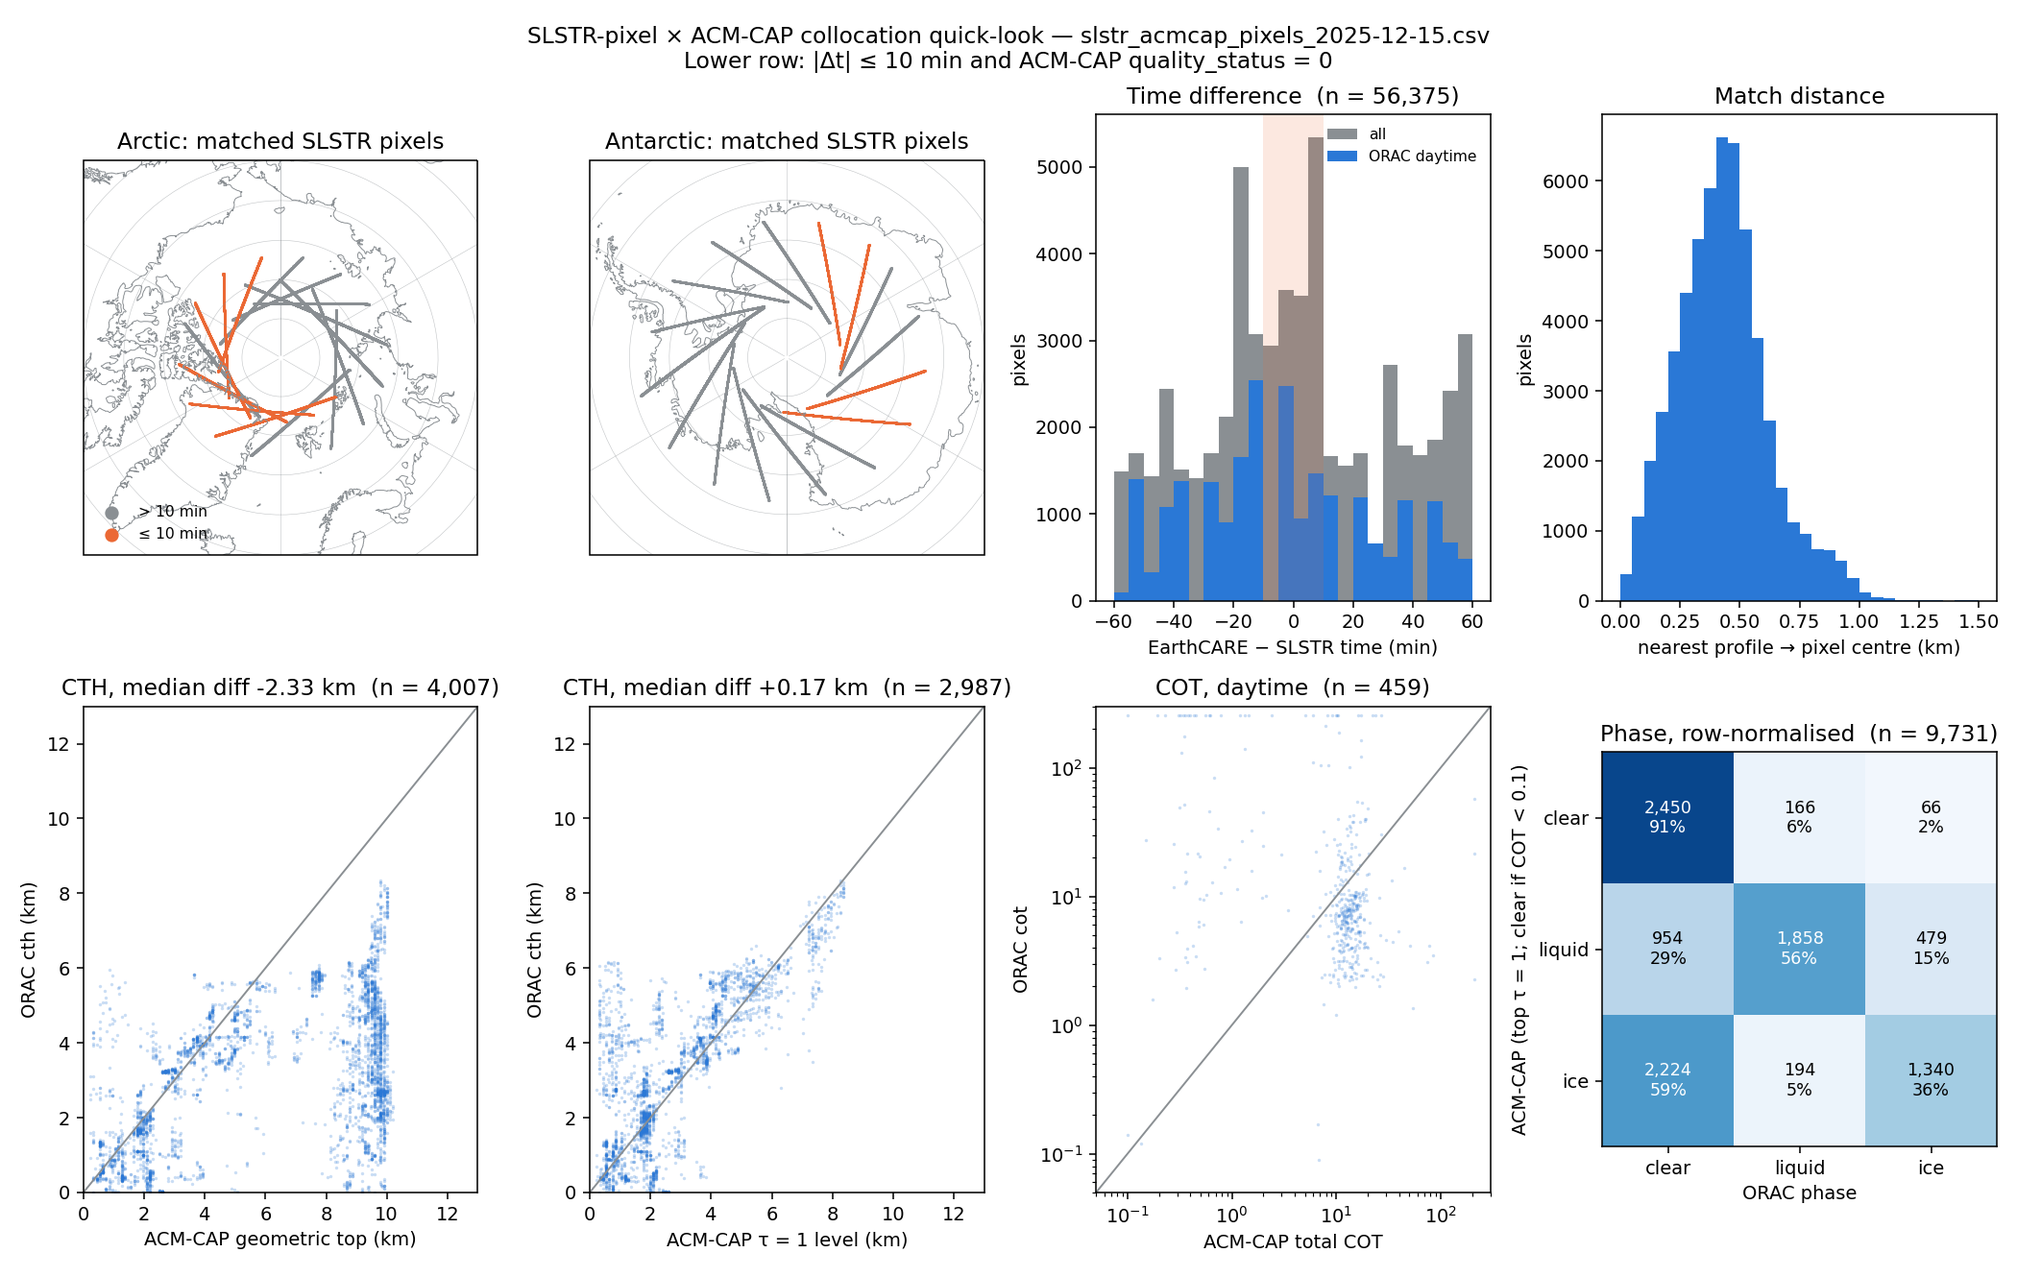
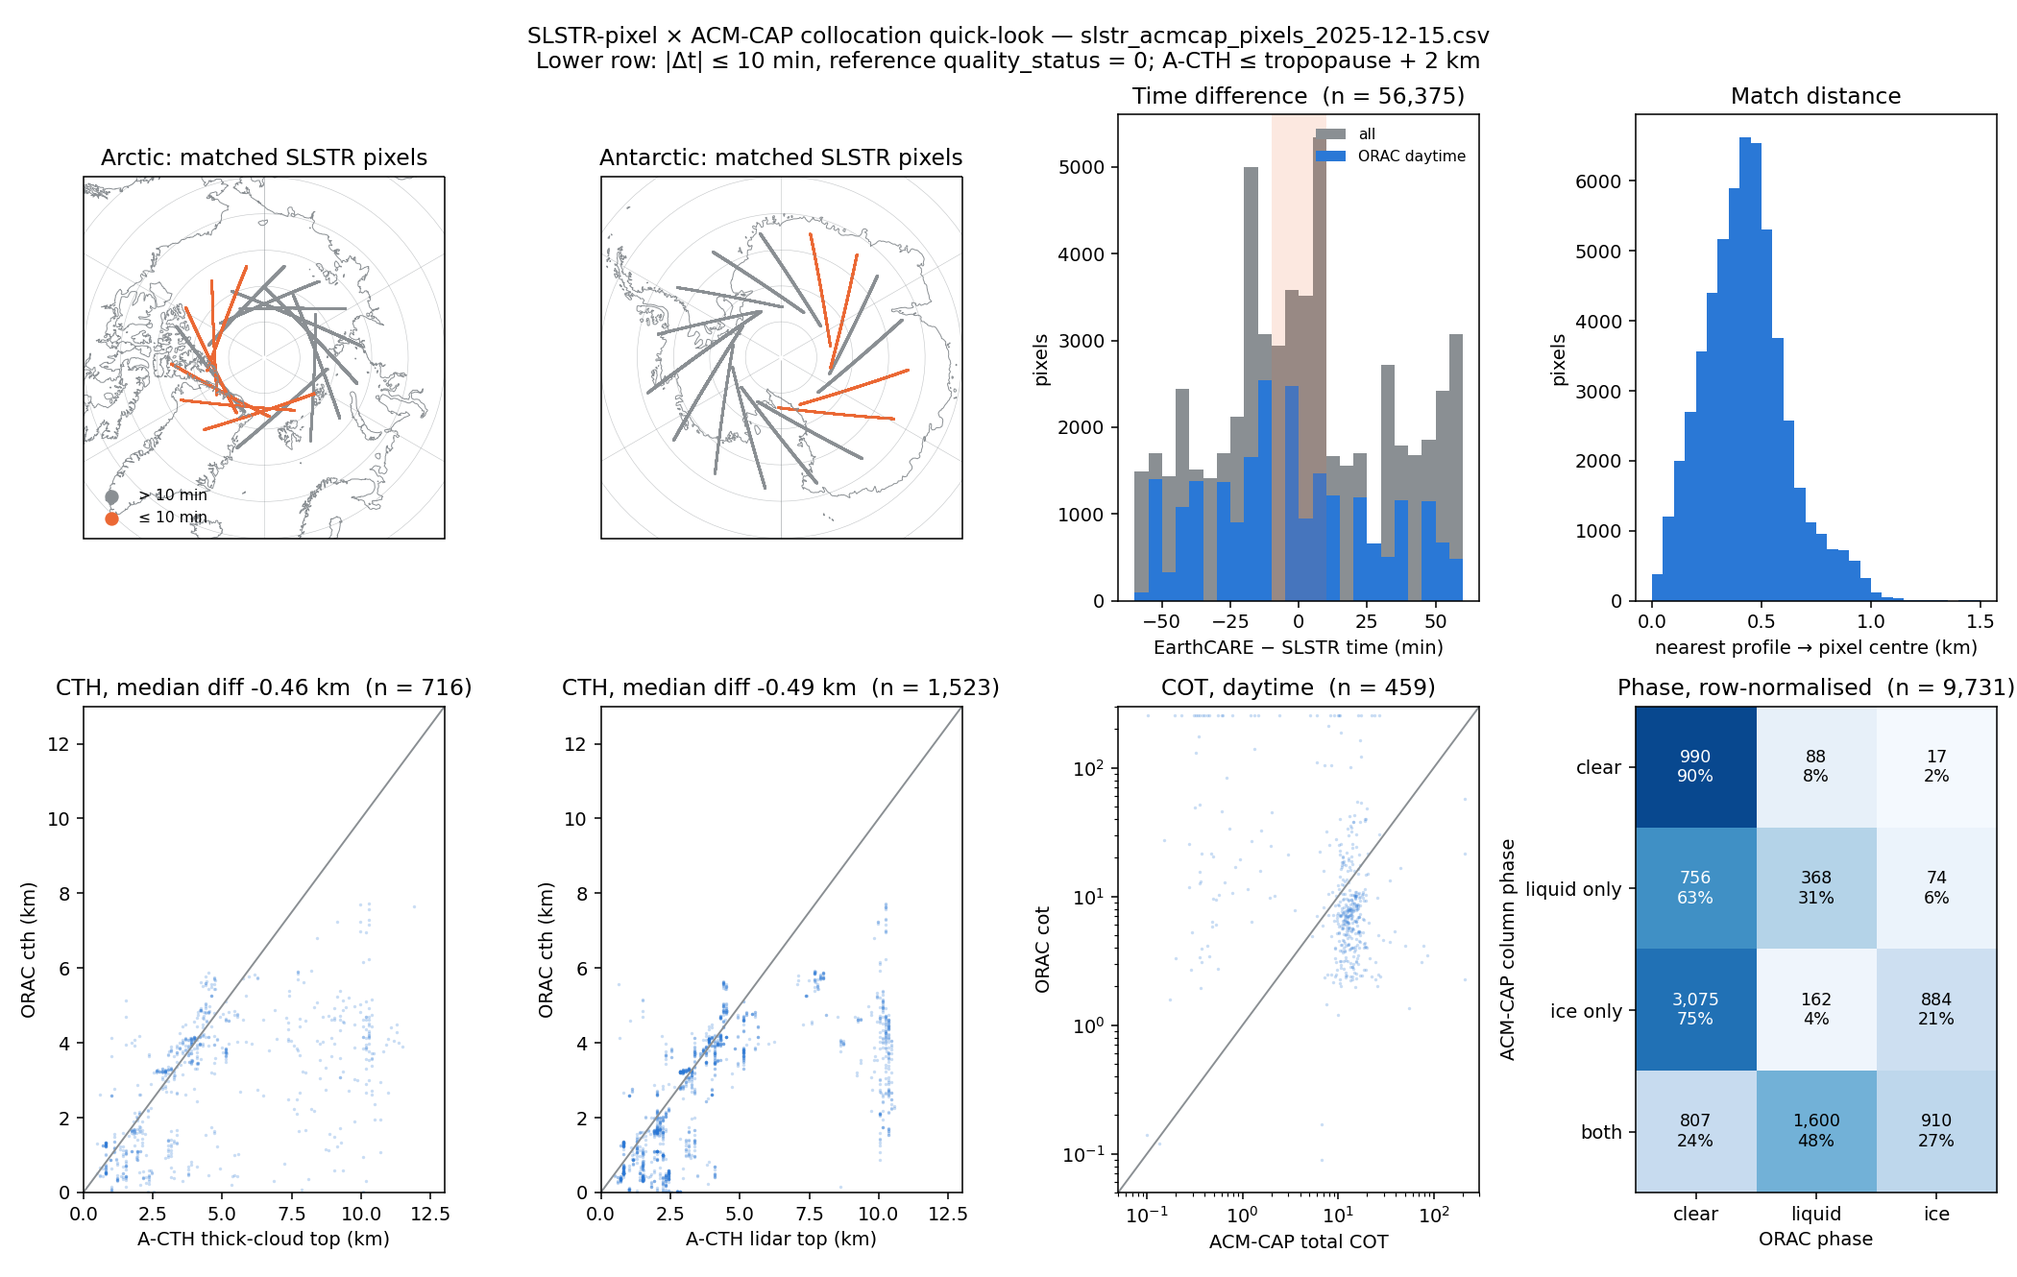
slstr(pixel): take cloud-top height from A-CTH; drop derived ACM-CAP top quantities
ACM-CAP has no cloud-top height, so the pilot had derived one (extinction
threshold) plus an optical-depth-1 level and top-weighted radius / ice
fraction. Replace those with the A-CTH product, resampled onto the ACM-CAP
profiles by nearest time, and keep only quantities taken or integrated
straight from ACM-CAP.

diff --git a/validation/reference.py b/validation/reference.py
@@ -205,22 +205,11 @@ def cth_from_acth(
     return thick_km, raw_km
 
 
-# Extinction above which a bin counts as cloud for the geometric cloud top
-# (~0.001 optical depth per 100 m bin). ACM-CAP reports ice extinction down to
-# ~1e-9 m^-1, far below anything a passive imager responds to.
-ACCAP_CLOUD_EXT_MIN = 1.0e-5
-# Optical depth below cloud top over which the "what a passive sensor sees"
-# quantities (top effective radius, top phase) are weighted.
-ACCAP_TOP_TAU = 1.0
 # Optical depth a species needs before it counts as present in ``phase_col``.
 ACCAP_PHASE_TAU_MIN = 0.01
 
 
-def accap_column_properties(
-    track: dict,
-    cloud_ext_min: float = ACCAP_CLOUD_EXT_MIN,
-    top_tau: float = ACCAP_TOP_TAU,
-) -> dict[str, np.ndarray]:
+def accap_column_properties(track: dict) -> dict[str, np.ndarray]:
     """Reduce ACM-CAP profiles to per-profile column quantities.
 
     Takes the dict from :func:`validation.readers.read_accap_columns` and
@@ -233,24 +222,16 @@ def accap_column_properties(
         ``cot_total``   liquid + ice
     Effective radius [µm]
         ``cer_liquid_col`` / ``cer_ice_col``  extinction-weighted over the column
-        ``cer_liquid_top`` / ``cer_ice_top``  weighted over the uppermost
-        ``top_tau`` of *total* optical depth (what a passive sensor responds to)
     Water path [g m^-2]
         ``lwp`` (∫ LWC dz), ``iwp`` (ACM-CAP ``ice_water_path``), ``rwp`` (∫ RWC dz)
     Phase
-        ``ice_frac_top``  ice share of the uppermost ``top_tau`` of optical
-        depth: 0 = liquid top, 1 = ice top
         ``phase_col``     0 clear, 1 liquid only, 2 ice only, 3 both; a species
         is present when its optical depth ≥ ``ACCAP_PHASE_TAU_MIN``
-    Cloud top
-        ``cth`` [km]  highest bin with total extinction ≥ ``cloud_ext_min``
-        ``ctt`` [K]   model temperature there
-        ``z_tau1`` [km] / ``t_tau1`` [K]  level where optical depth from the top
-        reaches ``top_tau`` (NaN for thinner columns)
-        Heights are on the ACM-CAP ``height`` grid, not corrected for geoid.
+
+    ACM-CAP has no cloud-top height; that reference comes from A-CTH
+    (:func:`cth_from_acth`).
     """
     h = track["height"]
-    n = h.shape[0]
     dz = np.abs(np.diff(h, axis=1))
     dz = np.concatenate([dz[:, :1], dz], axis=1)
     dz = np.where(np.isfinite(dz), dz, 0.0)
@@ -261,7 +242,6 @@ def accap_column_properties(
     ext_l, ext_i = _zero(track["liquid_extinction"]), _zero(track["ice_extinction"])
     re_l, re_i = _zero(track["liquid_effective_radius"]), _zero(track["ice_effective_radius"])
     tau_l, tau_i = ext_l * dz, ext_i * dz
-    tau = tau_l + tau_i
     # A profile with no retrieval has fill in every bin of both species.
     retrieved = (np.isfinite(track["liquid_extinction"]).any(axis=1)
                  | np.isfinite(track["ice_extinction"]).any(axis=1))
@@ -275,31 +255,9 @@ def accap_column_properties(
         with np.errstate(invalid="ignore", divide="ignore"):
             return np.where(den > 0, (weight * value).sum(axis=1) / den, np.nan)
 
-    # Share of each bin lying within the uppermost `top_tau` (grid is top-down).
-    cum = np.cumsum(tau, axis=1)
-    above = cum - tau
-    with np.errstate(invalid="ignore", divide="ignore"):
-        share = np.where(
-            tau > 0,
-            (np.minimum(cum, top_tau) - np.minimum(above, top_tau)) / tau, 0.0)
-    top_l, top_i = tau_l * share, tau_i * share
-    top_l_sum, top_i_sum = top_l.sum(axis=1), top_i.sum(axis=1)
-    with np.errstate(invalid="ignore", divide="ignore"):
-        ice_frac_top = np.where(
-            top_l_sum + top_i_sum > 0, top_i_sum / (top_l_sum + top_i_sum), np.nan)
-
     has_l = tau_l.sum(axis=1) >= ACCAP_PHASE_TAU_MIN
     has_i = tau_i.sum(axis=1) >= ACCAP_PHASE_TAU_MIN
     phase_col = np.where(retrieved, has_l * 1.0 + has_i * 2.0, np.nan)
-
-    rows = np.arange(n)
-    cloudy = (ext_l + ext_i) >= cloud_ext_min
-    top_bin = np.argmax(cloudy, axis=1)
-    has_top = cloudy.any(axis=1)
-    reach = cum >= top_tau
-    tau1_bin = np.argmax(reach, axis=1)
-    has_tau1 = reach.any(axis=1)
-    temp = track["temperature"]
 
     return {
         "cot_liquid": cot_liquid,
@@ -307,15 +265,8 @@ def accap_column_properties(
         "cot_total": cot_total,
         "cer_liquid_col": _wmean(tau_l, re_l) * 1e6,
         "cer_ice_col": _wmean(tau_i, re_i) * 1e6,
-        "cer_liquid_top": _wmean(top_l, re_l) * 1e6,
-        "cer_ice_top": _wmean(top_i, re_i) * 1e6,
         "lwp": np.where(retrieved, (_zero(track["liquid_water_content"]) * dz).sum(axis=1) * 1e3, np.nan),
         "iwp": track["ice_water_path"] * 1e3,
         "rwp": np.where(retrieved, (_zero(track["rain_water_content"]) * dz).sum(axis=1) * 1e3, np.nan),
-        "ice_frac_top": ice_frac_top,
         "phase_col": phase_col,
-        "cth": np.where(has_top, h[rows, top_bin] / 1e3, np.nan),
-        "ctt": np.where(has_top, temp[rows, top_bin], np.nan),
-        "z_tau1": np.where(has_tau1, h[rows, tau1_bin] / 1e3, np.nan),
-        "t_tau1": np.where(has_tau1, temp[rows, tau1_bin], np.nan),
     }

diff --git a/validation/cli.py b/validation/cli.py
@@ -696,14 +696,58 @@ _ACCAP_PIXEL_FLAGS = (
     "atlid_assim_status", "cpr_assim_status",
     "msi_sw_assim_status", "msi_lw_assim_status",
 )
-_ACCAP_PIXEL_RANGE = ("cot_total", "cth")
+_ACCAP_PIXEL_RANGE = ("cot_total",)
+# A-CTH and ACM-CAP are on different along-track grids (~0.14 s per profile);
+# an A-CTH profile further than this in time from the ACM-CAP one is not used.
+_ACTH_MAX_DT_S = 0.15
+
+
+def _acth_on_accap_profiles(acth_path: Path | None, accap_time: np.ndarray) -> pd.DataFrame:
+    """A-CTH cloud-top fields resampled onto the ACM-CAP profiles of the same frame.
+
+    Nearest A-CTH profile in time; rows are all-missing when the frame has no
+    A-CTH file or no profile within ``_ACTH_MAX_DT_S``.
+    """
+    n = accap_time.size
+    out = pd.DataFrame({
+        "acth_cth_thick_km": np.full(n, np.nan), "acth_cth_km": np.full(n, np.nan),
+        "acth_tropopause_km": np.full(n, np.nan),
+        "acth_quality_status": pd.array([pd.NA] * n, dtype="Int16"),
+        "acth_confidence": pd.array([pd.NA] * n, dtype="Int16"),
+        "acth_cloud_class": pd.array([pd.NA] * n, dtype="Int16"),
+    })
+    if acth_path is None:
+        return out
+    a = read_acth_track(acth_path)
+    order = np.argsort(a["time"])
+    t = a["time"][order].astype("int64")
+    q = accap_time.astype("int64")
+    j = np.clip(np.searchsorted(t, q), 1, t.size - 1)
+    j = np.where(np.abs(q - t[j - 1]) <= np.abs(t[j] - q), j - 1, j)
+    ok = np.abs(q - t[j]) <= _ACTH_MAX_DT_S * 1e9
+    src = order[j[ok]]
+    thick_km, raw_km = cth_from_acth(a["cth_thick"], a["cth_raw"])
+    out.loc[ok, "acth_cth_thick_km"] = thick_km[src]
+    out.loc[ok, "acth_cth_km"] = raw_km[src]
+    out.loc[ok, "acth_tropopause_km"] = a["tropopause_height_wmo"][src] / 1000.0
+    for col, key in (("acth_quality_status", "quality_status"),
+                     ("acth_confidence", "cth_confidence"),
+                     ("acth_cloud_class", "cloud_class")):
+        vals = pd.array(a[key][src].astype(np.int16), dtype="Int16")
+        vals[a[key][src] == -127] = pd.NA
+        out.loc[ok, col] = vals
+    return out
 
 
 def _process_frame_pixel_slstr(
     path: Path, catalog: GranuleCatalog, max_dt_s: float, max_dist_km: float,
-    out_dir: Path,
+    out_dir: Path, acth_path: Path | None = None,
 ) -> tuple[Path | None, str]:
-    """Collocate one ACM-CAP frame per SLSTR pixel; write pixels_acmcap_<frame_id>.csv."""
+    """Collocate one ACM-CAP frame per SLSTR pixel; write pixels_acmcap_<frame_id>.csv.
+
+    ``acth_path`` is the A-CTH file of the same frame (cloud-top height
+    reference); its columns are empty when it is missing.
+    """
     meta = _frame_metadata(path)
     if meta is None:
         return None, "fail"
@@ -736,9 +780,13 @@ def _process_frame_pixel_slstr(
     ec["acmcap_phase_col"] = pd.array(
         np.where(np.isfinite(props["phase_col"]), props["phase_col"], -1), dtype="Int16")
     ec.loc[~np.isfinite(props["phase_col"]), "acmcap_phase_col"] = pd.NA
+    acth = _acth_on_accap_profiles(acth_path, track["time"])
+    acth_flags = ["acth_quality_status", "acth_confidence", "acth_cloud_class"]
+    ec = pd.concat([ec, acth], axis=1)
+    mean_cols += [c for c in acth.columns if c not in acth_flags]
     ec["ec_time"], ec["ec_lat"], ec["ec_lon"] = track["time"], track["lat"], track["lon"]
     nearest_cols = ["ec_time", "ec_lat", "ec_lon", "acmcap_phase_col",
-                    *(f"acmcap_{n}" for n in _ACCAP_PIXEL_FLAGS)]
+                    *(f"acmcap_{n}" for n in _ACCAP_PIXEL_FLAGS), *acth_flags]
 
     pixels = aggregate_pairs_to_pixels(
         pairs, ec, mean_cols=mean_cols,
@@ -779,12 +827,16 @@ def cmd_slstr_pixel_collocate(args: argparse.Namespace) -> int:
 
     out_dir = Path(args.out)
     out_dir.mkdir(parents=True, exist_ok=True)
+    acth_by_frame = {
+        _frame_metadata(p)[0]: p for p in _enumerate_frames("A-CTH", start, end)}
+    print(f"Found {len(acth_by_frame)} A-CTH frames for the cloud-top reference")
     counts = {"done": 0, "skip": 0, "empty": 0, "fail": 0}
     for i, path in enumerate(frames, 1):
         meta = _frame_metadata(path)
         fid = meta[0] if meta else "?"
         _, status = _process_frame_pixel_slstr(
-            path, catalog, max_dt_s, args.max_pixel_dist_km, out_dir)
+            path, catalog, max_dt_s, args.max_pixel_dist_km, out_dir,
+            acth_path=acth_by_frame.get(fid))
         counts[status] += 1
         marker = {"done": "✓", "skip": "·", "empty": "○", "fail": "✗"}[status]
         print(f"  [{i:4d}/{len(frames)}] {marker} {fid:>8} → {status}", flush=True)

diff --git a/scripts/slstr_pixel_quicklook.py b/scripts/slstr_pixel_quicklook.py
@@ -64,11 +64,13 @@ def main(csv: str, out: str, max_dt_min: float = 10.0) -> int:
     ax.set(xlabel="nearest profile → pixel centre (km)", ylabel="pixels",
            title="Match distance")
 
-    m = near & good & d["orac_cth"].notna() & d["acmcap_cth"].notna()
-    for j, (col, lab) in enumerate((("acmcap_cth", "ACM-CAP geometric top"),
-                                    ("acmcap_z_tau1", "ACM-CAP τ = 1 level"))):
+    # A-CTH heights have a spurious stratospheric tail; cap as in the CTH reports.
+    cap = d["acth_tropopause_km"] + 2
+    m = near & (d["acth_quality_status"] == 0) & d["orac_cth"].notna()
+    for j, (col, lab) in enumerate((("acth_cth_thick_km", "A-CTH thick-cloud top"),
+                                    ("acth_cth_km", "A-CTH lidar top"))):
         ax = fig.add_subplot(2, 4, 5 + j)
-        mm = m & d[col].notna()
+        mm = m & (d[col] <= cap)
         ax.scatter(d.loc[mm, col], d.loc[mm, "orac_cth"], s=3, color=BLUE,
                    alpha=0.25, linewidths=0)
         ax.plot([0, 13], [0, 13], color=GREY, lw=1)
@@ -80,27 +82,27 @@ def main(csv: str, out: str, max_dt_min: float = 10.0) -> int:
     _loglog(fig.add_subplot(2, 4, 7), d.loc[m, "acmcap_cot_total"], d.loc[m, "orac_cot"],
             (0.05, 300), "ACM-CAP total COT", "ORAC cot", "COT, daytime")
 
-    # Phase: ORAC phase (0 clear, 1 liquid, 2 ice) vs ACM-CAP top phase.
+    # Phase: ORAC phase (0 clear, 1 liquid, 2 ice) vs ACM-CAP column phase.
     ax = fig.add_subplot(2, 4, 8)
-    m = near & good & d["orac_phase"].notna()
-    ref = np.where(d["acmcap_cot_total"] < 0.1, 0,
-                   np.where(d["acmcap_ice_frac_top"] >= 0.5, 2, 1))
-    table = pd.crosstab(ref[m], d.loc[m, "orac_phase"].astype(int)).reindex(
-        index=[0, 1, 2], columns=[0, 1, 2], fill_value=0)
+    m = near & good & d["orac_phase"].notna() & d["acmcap_phase_col"].notna()
+    table = pd.crosstab(d.loc[m, "acmcap_phase_col"].astype(int),
+                        d.loc[m, "orac_phase"].astype(int)).reindex(
+        index=[0, 1, 2, 3], columns=[0, 1, 2], fill_value=0)
     frac = table.div(table.sum(axis=1).replace(0, np.nan), axis=0)
-    ax.imshow(frac, cmap="Blues", vmin=0, vmax=1)
-    for r in range(3):
+    ax.imshow(frac, cmap="Blues", vmin=0, vmax=1, aspect="auto")
+    for r in range(4):
         for c in range(3):
             ax.text(c, r, f"{table.iat[r, c]:,}\n{frac.iat[r, c]:.0%}", ha="center",
                     va="center", fontsize=9,
                     color="white" if frac.iat[r, c] > 0.55 else "black")
-    names = ["clear", "liquid", "ice"]
-    ax.set(xticks=range(3), yticks=range(3), xticklabels=names, yticklabels=names,
-           xlabel="ORAC phase", ylabel="ACM-CAP (top τ = 1; clear if COT < 0.1)",
+    ax.set(xticks=range(3), yticks=range(4), xticklabels=["clear", "liquid", "ice"],
+           yticklabels=["clear", "liquid only", "ice only", "both"],
+           xlabel="ORAC phase", ylabel="ACM-CAP column phase",
            title=f"Phase, row-normalised  (n = {int(table.values.sum()):,})")
 
     fig.suptitle(f"SLSTR-pixel × ACM-CAP collocation quick-look — {csv.split('/')[-1]}\n"
-                 f"Lower row: |Δt| ≤ {max_dt_min:g} min and ACM-CAP quality_status = 0",
+                 f"Lower row: |Δt| ≤ {max_dt_min:g} min, reference quality_status = 0; "
+                 f"A-CTH ≤ tropopause + 2 km",
                  fontsize=12)
     fig.tight_layout()
     fig.savefig(out, dpi=140)

diff --git a/validation/readers.py b/validation/readers.py
@@ -199,7 +199,7 @@ _ACCAP_PROFILE_FLAGS = {
     "msi_lw_assim_status": "MSI_longwave_brightness_temperature_assimilation_status",
 }
 _ACCAP_BIN_FLOATS = (
-    "height", "temperature",
+    "height",
     "liquid_extinction", "liquid_effective_radius", "liquid_water_content",
     "ice_extinction", "ice_effective_radius",
     "rain_water_content",
@@ -210,8 +210,8 @@ def read_accap_columns(path: str | Path) -> dict:
     """Read an ACM_CAP_2B frame with everything needed for column reduction.
 
     A superset of :func:`read_accap_track` (which stays as-is for the existing
-    water-cloud reports): adds the ice and rain profiles, temperature, the
-    retrieval error fields and all assimilation-status flags. Keys are the
+    water-cloud reports): adds the ice and rain profiles, the retrieval
+    error fields and all assimilation-status flags. Keys are the
     ACM-CAP dataset names except the ``*_assim_status`` shorthands.
 
     Floats are float64 with fill → NaN; integer flags are int16 with the

diff --git a/share/slstr_acmcap_pixel_pilot_2025-12-15/README.md b/share/slstr_acmcap_pixel_pilot_2025-12-15/README.md
@@ -1,10 +1,11 @@
-# SLSTR × EarthCARE ACM-CAP collocation — pilot (15 Dec 2025)
+# SLSTR × EarthCARE collocation — pilot (15 Dec 2025)
 
-One day of ORAC SLSTR pixels matched to EarthCARE ACM-CAP.
+One day of ORAC SLSTR pixels matched to EarthCARE ACM-CAP (cloud properties)
+and A-CTH (cloud-top height).
 
-- `slstr_acmcap_pixels_2025-12-15.csv` — 56,375 rows × 93 columns (on JASMIN
+- `slstr_acmcap_pixels_2025-12-15.csv` — 56,375 rows × 91 columns (on JASMIN
   only: `/gws/pw/j07/nceo_aerosolfire/slstr_v5.1_new_snowice_val/`)
-- `quicklook.png` — where the matches are, plus a first ORAC vs ACM-CAP look
+- `quicklook.png` — where the matches are, plus a first ORAC vs EarthCARE look
 
 ## Collocation strategy
 
@@ -13,6 +14,8 @@ One day of ORAC SLSTR pixels matched to EarthCARE ACM-CAP.
   pixel centre, within 1.5 km.
 - If two profiles fall in the same pixel (11% of rows) they are averaged;
   `n_profiles` says how many.
+- A-CTH is on a slightly different along-track grid, so each ACM-CAP profile
+  takes the A-CTH profile nearest in time (same frame, within 0.15 s).
 - **Time window is ±60 min**, and the time difference is saved as `dt_s`
   (EarthCARE − SLSTR, seconds), so you can pick your own threshold.
   ±10 min leaves 15,382 pixels; ±30 min leaves 32,849.
@@ -53,25 +56,28 @@ ACM-CAP is a profile, so each one is reduced to column values:
 |---|---|
 | `cot_liquid`, `cot_ice`, `cot_total` | Optical depth (ice = integrated ice extinction) |
 | `cer_liquid_col`, `cer_ice_col` | Effective radius (µm), extinction-weighted over the column |
-| `cer_liquid_top`, `cer_ice_top` | Same, but only the top 1 unit of optical depth |
 | `lwp`, `iwp`, `rwp` | Liquid, ice and rain water path (g m⁻²) |
-| `ice_frac_top` | Ice share of the top 1 unit of optical depth (0 = liquid top, 1 = ice top) |
-| `phase_col` | 0 clear, 1 liquid only, 2 ice only, 3 both |
-| `cth`, `ctt` | Geometric cloud top (km) and temperature there (K) |
-| `z_tau1`, `t_tau1` | Height and temperature where optical depth from the top reaches 1 |
+| `phase_col` | 0 clear, 1 liquid only, 2 ice only, 3 both (a phase counts if its optical depth ≥ 0.01) |
 | `quality_status`, `convergence_status`, `synergy_status`, `*_assim_status` | ACM-CAP flags as in the product (0 = good) |
 | `cot_liquid_lnerr`, `iwp_lnerr`, `aod`, `cost_function`, `elevation_m`, `tropopause_m` | Straight from the product |
 
+**A-CTH — `acth_*`**
+
+Cloud-top height comes from the A-CTH product (ACM-CAP has none):
+
+| Column | Meaning |
+|---|---|
+| `acth_cth_thick_km` | `ATLID_thick_cloud_top_height` — top of the uppermost optically thick layer (km) |
+| `acth_cth_km` | `ATLID_cloud_top_height` — lidar-detected top, including thin cirrus (km) |
+| `acth_tropopause_km` | `tropopause_height_wmo` (km) |
+| `acth_quality_status` | −1 no cloud, 0 good, 1 low confidence, 2–3 warnings, 4 bad |
+| `acth_confidence`, `acth_cloud_class` | As in the product (class: 1 thick, 2 thin, 3 thin over thick, 4 thick over thick, 5 thin over thin) |
+
 ## Worth knowing
 
-- ORAC `cth` follows an optical-depth level, not the geometric top. On the same
-  22,755 pixels (ACM-CAP COT ≥ 1, ±60 min) the median difference is −1.6 km
-  against `cth` and +0.2 km against `z_tau1`. The gap to the geometric top is
-  almost all multi-layer scenes: −0.2 km with one cloud layer, −3.6 km with two.
-  The closest level is a little above `z_tau1`, at about 0.3–0.5 optical depth.
-  One day of data, so treat the exact level as provisional.
-- For effective radius I wasn't sure whether column or cloud-top weighting is
-  the better match to ORAC, so both are there.
+- `acth_cth_thick_km` has spurious values far above the tropopause (up to
+  39 km, 40% of its values in this file). Screen with
+  `acth_cth_thick_km <= acth_tropopause_km + 2`.
 - No parallax correction.
 
 Made with `python -m validation slstr-pixel-collocate` (code in
